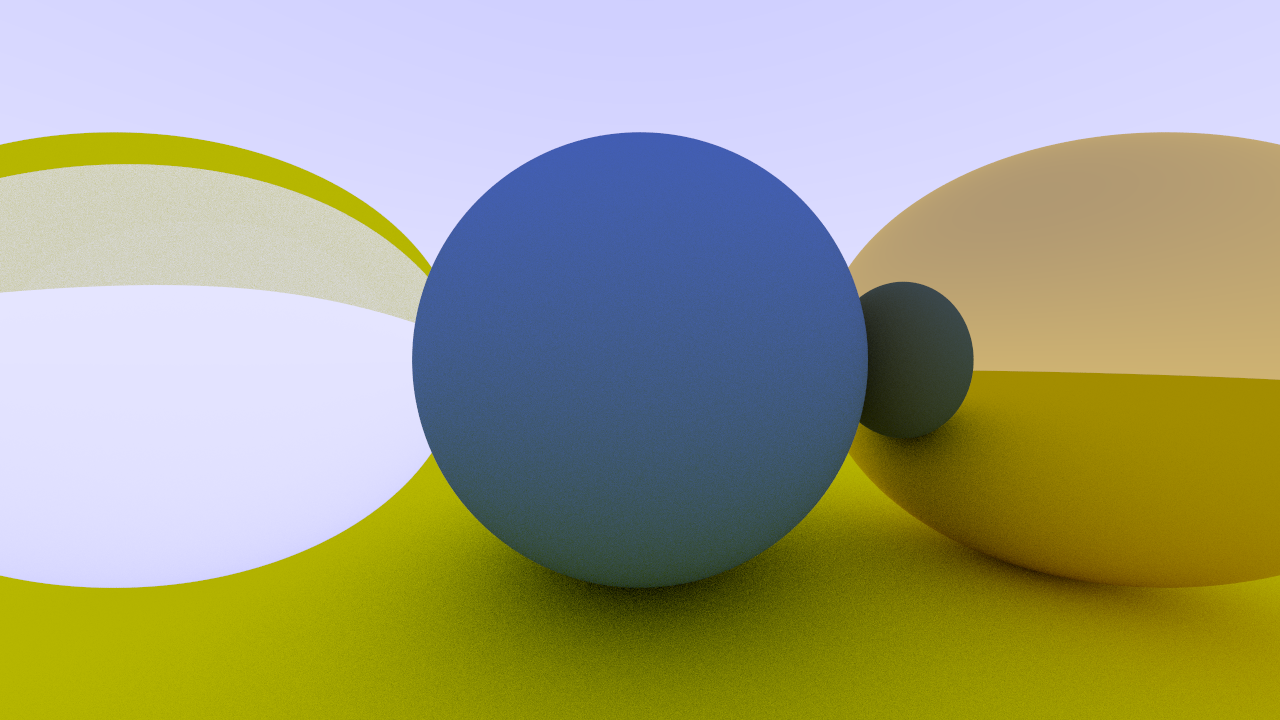
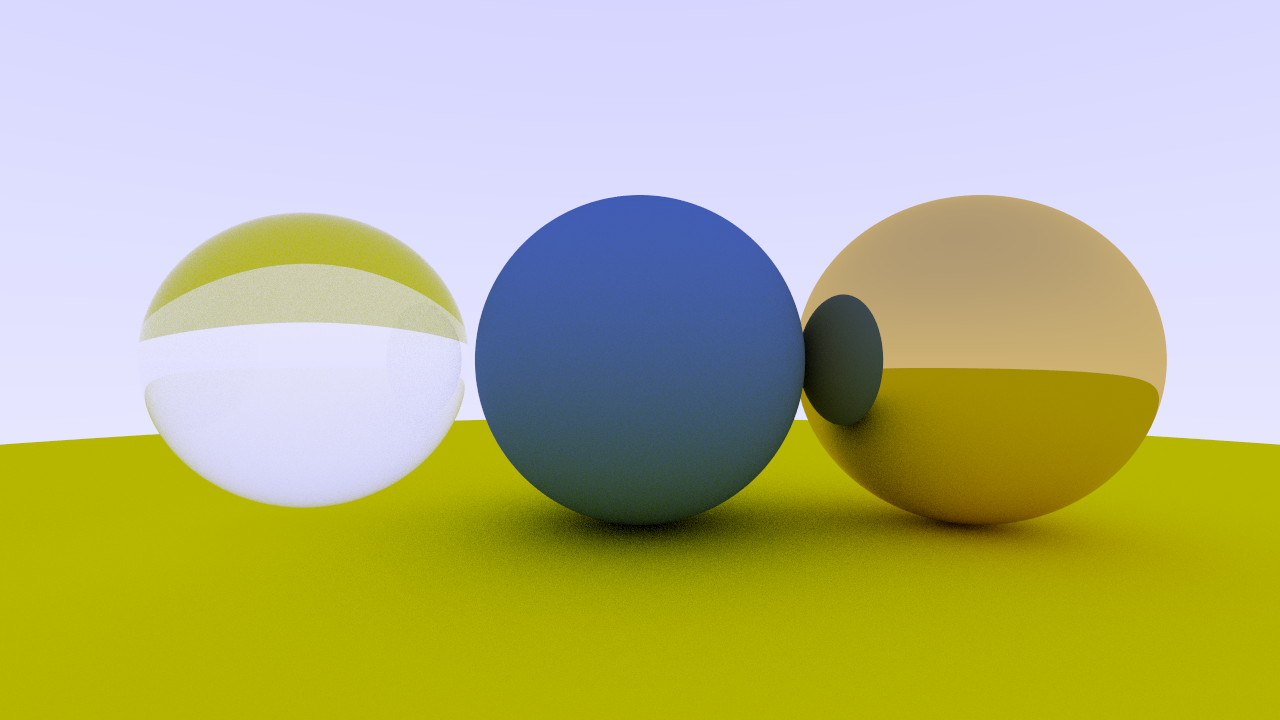
Add reflections to dielectrics

diff --git a/shape.go b/shape.go
@@ -1,6 +1,7 @@
 package main
 
 import (
+	"log"
 	"math"
 	"math/rand"
 )
@@ -56,23 +57,40 @@ func refract(incoming Vec3, normal Vec3, niOverNt float32) (didRefract bool, ref
 	return false, Vec3{}
 }
 
+func schlick(cosine float32, reflectionIndex float32) float32 {
+	r0 := (1 - reflectionIndex) / (1 + reflectionIndex)
+	r0 *= r0
+	base := 1 - cosine
+	return r0 + (1-r0)*base*base*base*base*base
+}
+
+func assertUnitLength(v Vec3) {
+	if math.Abs(1-float64(v.Length())) > 1e-3 {
+		log.Fatal("Vector is not unit length: ", v.Length())
+	}
+}
+
 // Scatter a ray on a dielectric
 func (mat Dielectric) Scatter(ray Ray, hit Hit, rng *rand.Rand) (didScatter bool, attenuation Vec3, scattered Ray) {
-	reflected := reflect(ray.Direction, hit.Normal)
 	var outwardNormal Vec3
 	var niOverNt float32
+	var cosine float32
 	if Dot(ray.Direction, hit.Normal) > 0 {
 		outwardNormal = MulScalar(-1, hit.Normal)
 		niOverNt = mat.ReflectionIndex
+		cosine = mat.ReflectionIndex * Dot(ray.Direction, hit.Normal)
 	} else {
 		outwardNormal = hit.Normal
 		niOverNt = 1.0 / mat.ReflectionIndex
+		cosine = -Dot(ray.Direction, hit.Normal)
 	}
 
 	didRefract, refracted := refract(ray.Direction, outwardNormal, niOverNt)
-	if didRefract {
+	if didRefract && schlick(cosine, mat.ReflectionIndex) < rng.Float32() {
 		return true, Vec3{1, 1, 1}, Ray{hit.Position, refracted}
 	}
+
+	reflected := reflect(ray.Direction, hit.Normal)
 	return true, Vec3{1, 1, 1}, Ray{hit.Position, reflected}
 }
 
@@ -108,7 +126,7 @@ func (sphere Sphere) Intersect(ray Ray) *Hit {
 		return nil
 	}
 
-	normal := Normalize(Sub(ray.At(t), sphere.Position))
+	normal := Normalize(DivScalar(sphere.Radius, Sub(ray.At(t), sphere.Position)))
 	return NewHit(t, ray, normal, sphere.Material)
 }
 

diff --git a/main.go b/main.go
@@ -15,7 +15,7 @@ import (
 
 const imageWidth = 1280
 const imageHeight = 720
-const fieldOfView = 90.0
+const fieldOfView float32 = 90.0
 const numSamples = 100
 const maxBounces = 50
 
@@ -62,7 +62,7 @@ func setupCamera(cameraPos Vec3, cameraTarget Vec3, up Vec3) Camera {
 	cameraDirection := Normalize(Sub(cameraTarget, cameraPos))
 	horizontalDirection := Cross(Normalize(up), cameraDirection)
 	verticalDirection := Cross(Normalize(cameraDirection), Normalize(horizontalDirection))
-	halfWidth := float32(math.Tan(fieldOfView / 2))
+	halfWidth := float32(math.Tan(float64(Deg2Rad(fieldOfView)) / 2.0))
 	halfHeight := halfWidth * float32(imageHeight) / float32(imageWidth)
 	pixelStepX := MulScalar(2*halfWidth/(imageWidth-1), horizontalDirection)
 	pixelStepY := MulScalar(2*halfHeight/(imageHeight-1), verticalDirection)
@@ -94,10 +94,10 @@ func (camera *Camera) getRay(x float32, y float32) Ray {
 
 // Dielectrics
 var world = []Shape{
-	Sphere{Vec3{0, 0, 1}, 0.5, Lambertian{Vec3{0.1, 0.2, 0.5}}},
+	Sphere{Vec3{0, 0, 2}, 0.5, Lambertian{Vec3{0.1, 0.2, 0.5}}},
 	Sphere{Vec3{0, -100.5, 1}, 100, Lambertian{Vec3{0.8, 0.8, 0.0}}},
-	Sphere{Vec3{1, 0, 1}, 0.5, Metal{Vec3{0.8, 0.6, 0.2}, 0}},
-	Sphere{Vec3{-1, 0, 1}, 0.5, Dielectric{1.5}},
+	Sphere{Vec3{1, 0, 2}, 0.5, Metal{Vec3{0.8, 0.6, 0.2}, 0}},
+	Sphere{Vec3{-1, 0, 2}, 0.45, Dielectric{1.5}},
 }
 
 func castRay(ray Ray, rng *rand.Rand, bounced int) Vec3 {

diff --git a/math.go b/math.go
@@ -14,6 +14,9 @@ type Vec3 struct {
 	Z float32
 }
 
+// Pi is the circle constant
+const Pi = float32(math.Pi)
+
 func (v *Vec3) String() string {
 	return fmt.Sprintf("(%f, %f, %f)", v.X, v.Y, v.Z)
 }
@@ -49,7 +52,7 @@ func Cross(a Vec3, b Vec3) Vec3 {
 
 // Normalize a vector
 func Normalize(a Vec3) Vec3 {
-	return MulScalar(1/a.Length(), a)
+	return DivScalar(a.Length(), a)
 }
 
 // Sub computes a - b
@@ -97,7 +100,17 @@ func RandomPointInUnitSphere(rng *rand.Rand) Vec3 {
 	}
 }
 
-// Compute the sqrt of a float32
+// Sqrt computes the sqrt of a float32
 func Sqrt(x float32) float32 {
 	return float32(math.Sqrt(float64(x)))
+}
+
+// Deg2Rad converts an angle in degrees to radians
+func Deg2Rad(angle float32) float32 {
+	return angle / 180 * Pi
+}
+
+// Rad2Deg converts an angle in radians to degrees
+func Rad2Deg(angle float32) float32 {
+	return angle * 180 / Pi
 }
